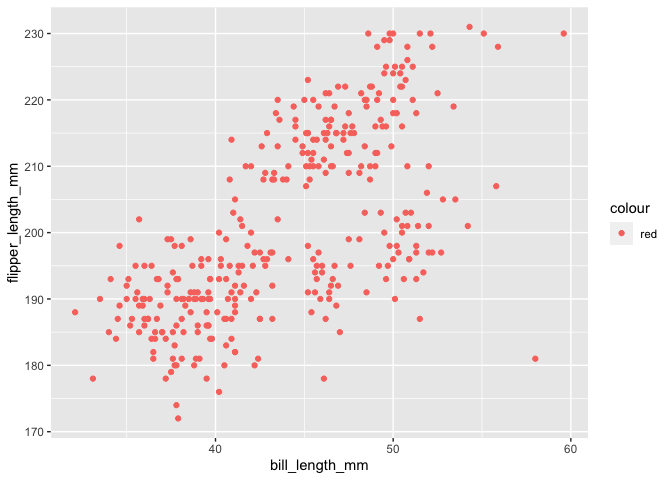
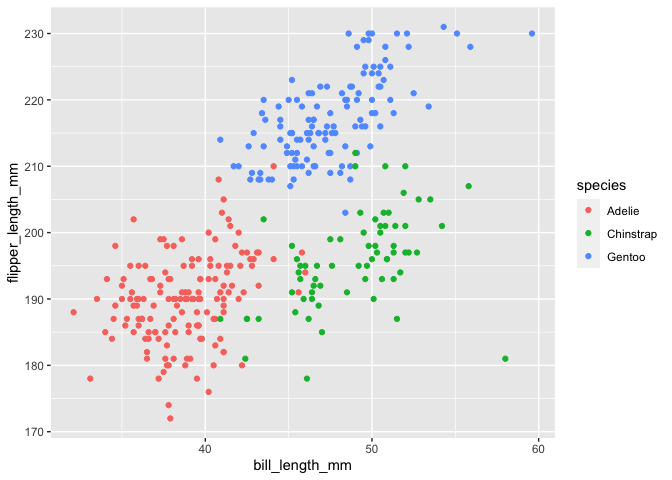
Changed description to problem 1's answer.

diff --git a/p8105_hw1_if2282.md b/p8105_hw1_if2282.md
@@ -27,7 +27,7 @@ prob1_df =
 mean(pull(prob1_df, samp))
 ```
 
-    ## [1] -0.1733651
+    ## [1] -0.1743201
 
 ``` r
 mean(pull(prob1_df, gr_than_0))
@@ -78,7 +78,7 @@ number of columns are 8. The mean flipper length is 200.9152047mm.
 ## Scatterplot for Bill Length vs. Flipper Length
 
 ``` r
-ggplot(penguins, aes(x = bill_length_mm, y = flipper_length_mm, color = 'red')) + geom_point()
+ggplot(penguins, aes(x = bill_length_mm, y = flipper_length_mm, color = species)) + geom_point()
 ```
 
 ![](p8105_hw1_if2282_files/figure-gfm/unnamed-chunk-5-1.png)<!-- -->
